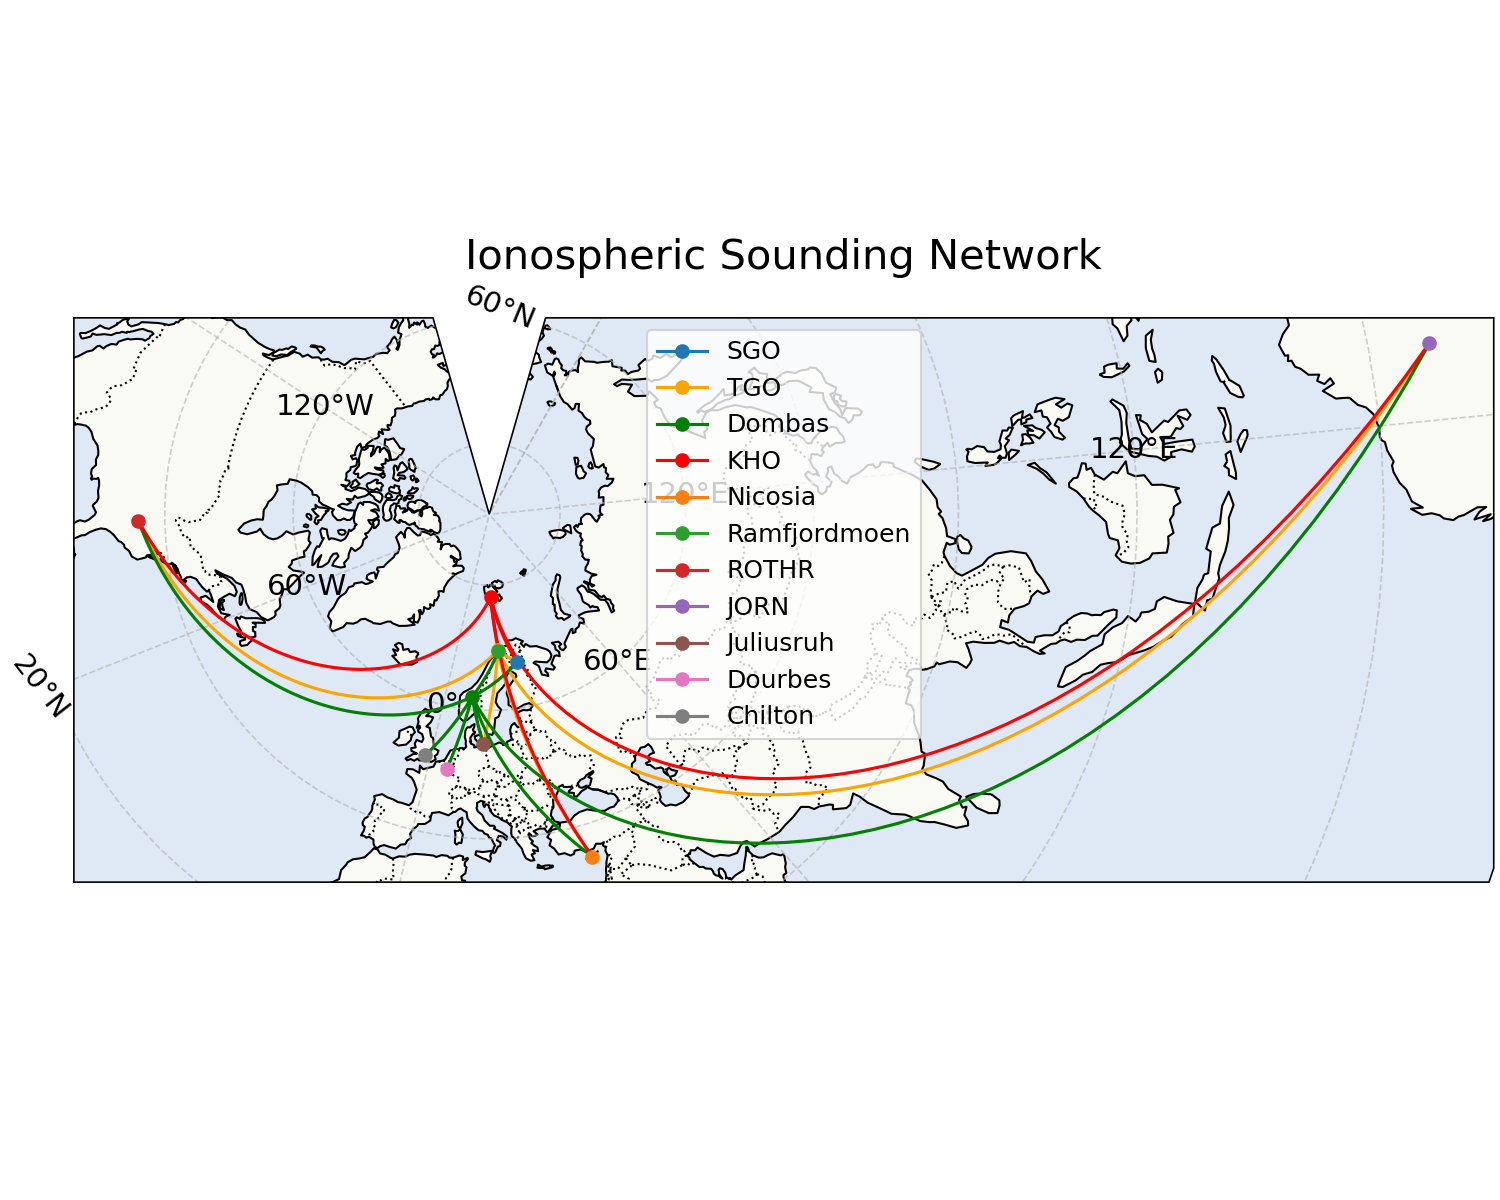
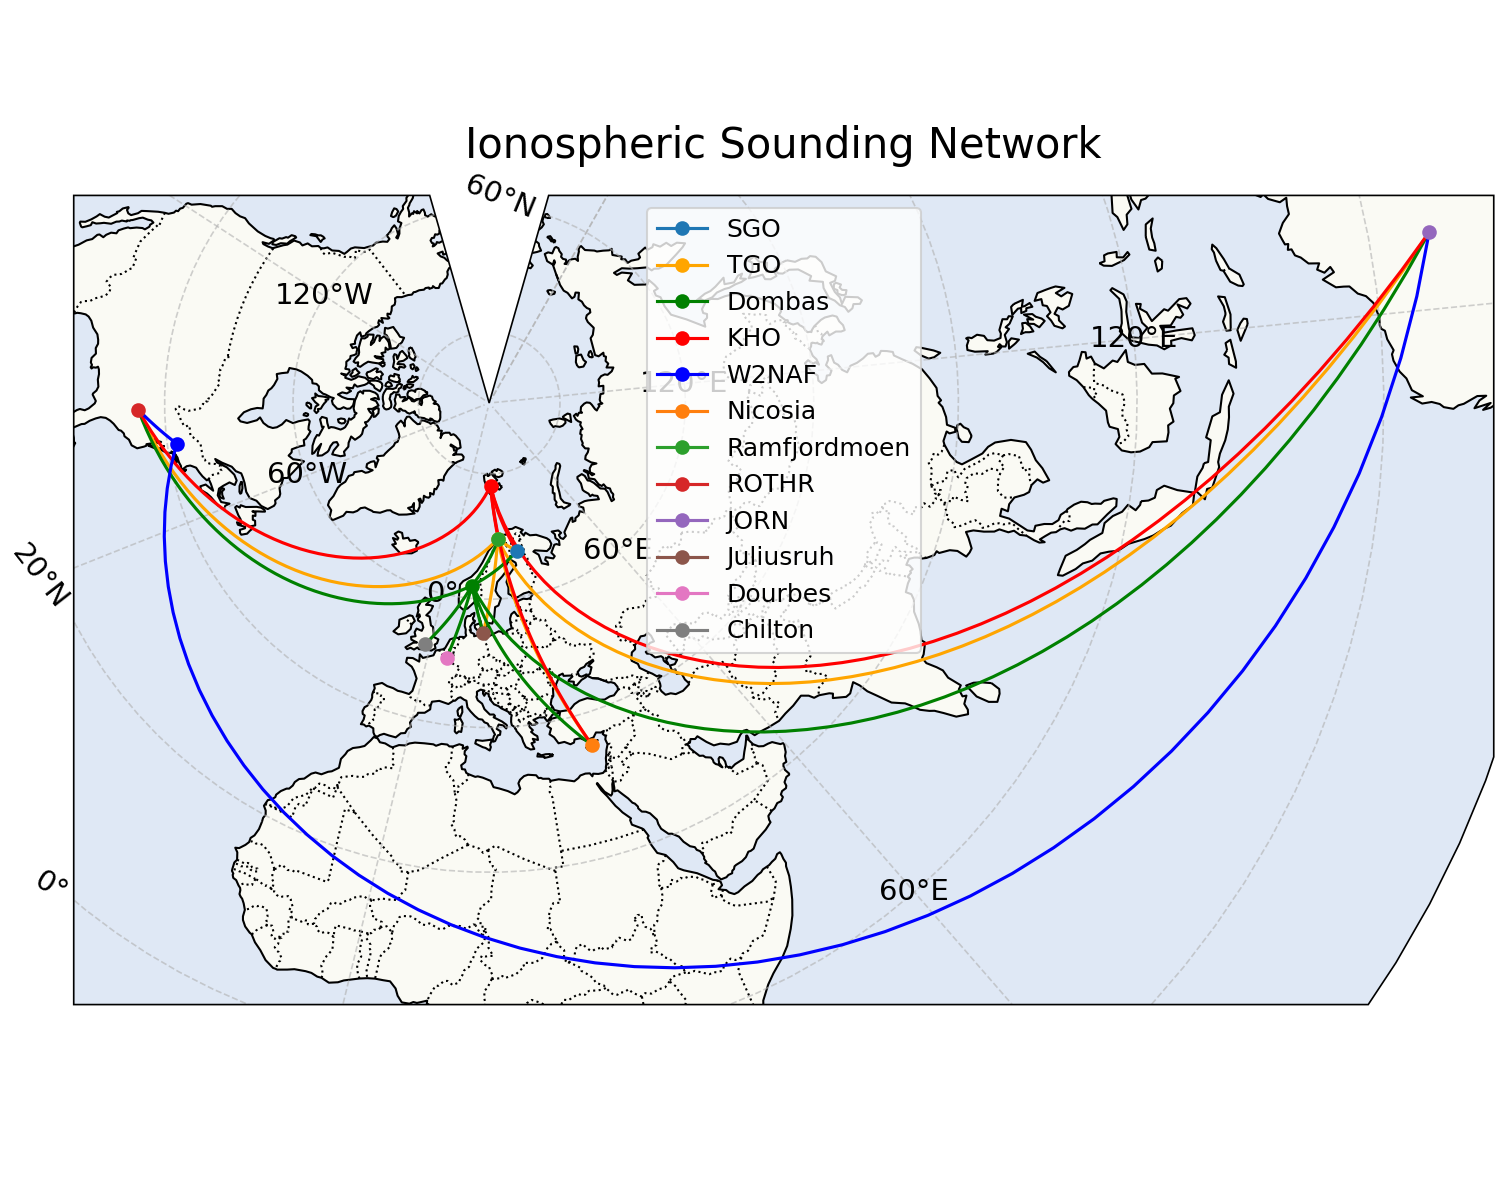
Add W2NAF chirpsounder station

diff --git a/plot_map.py b/plot_map.py
@@ -15,6 +15,7 @@ def plot_map(conf, set_extent=True, ofname="map.png"):
         "TGO": "orange",
         "DOB": "green",
         "KHO": "red",
+        "W2NAF": "blue",
     }
   # Create map
     fig = plt.figure(figsize=(10, 8),constrained_layout=True)
@@ -34,7 +35,7 @@ def plot_map(conf, set_extent=True, ofname="map.png"):
 
     # Set extent
     if set_extent:
-        ax.set_extent([-10, 40, 45, 90])
+        ax.set_extent([-90, 40, 35, 90])
 
     # ✅ Add gridlines
     gl = ax.gridlines(
@@ -53,7 +54,7 @@ def plot_map(conf, set_extent=True, ofname="map.png"):
     gl.ylabel_style = {'size': 14}
 
     # Filter for the receiver stations shown on the live dashboard.
-    target_stations = {"DOB", "TGO", "KHO"}
+    target_stations = {"DOB", "TGO", "KHO", "W2NAF"}
     filtered_links = [l for l in conf.station_links if (l[0] in target_stations or l[1] in target_stations)]
     stations_to_plot = target_stations.copy()
 